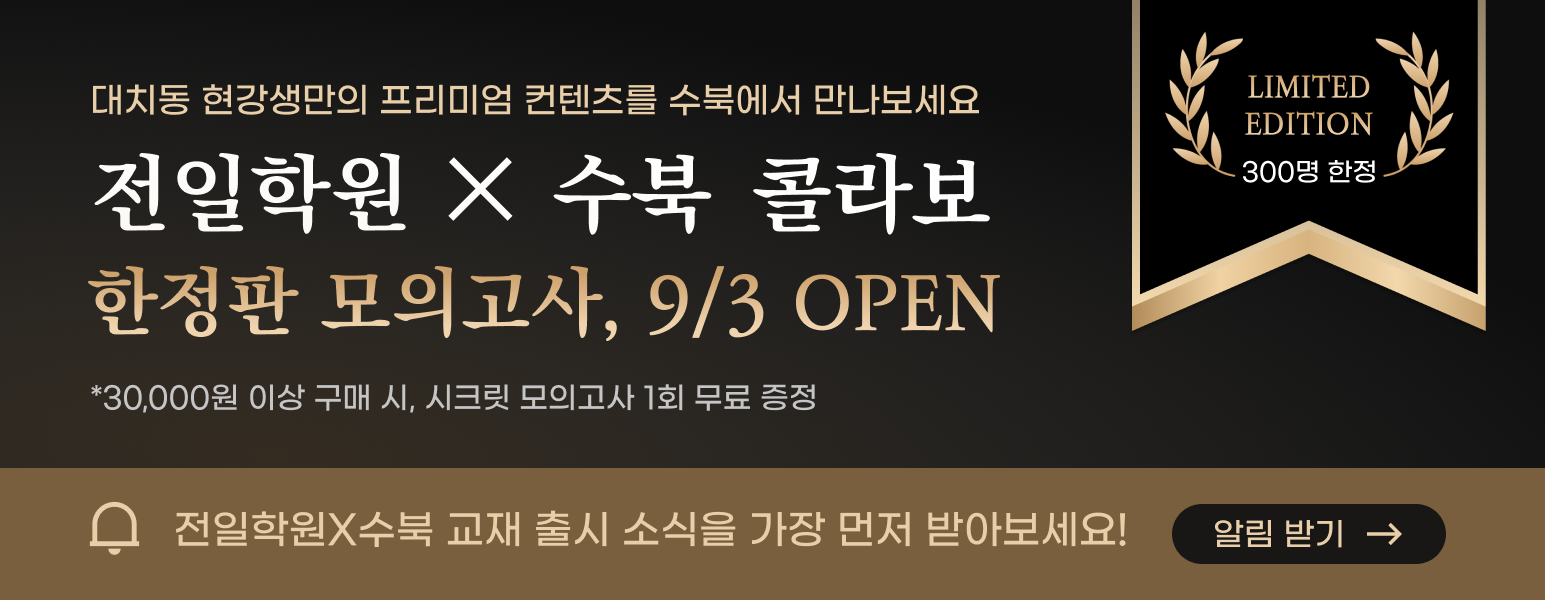
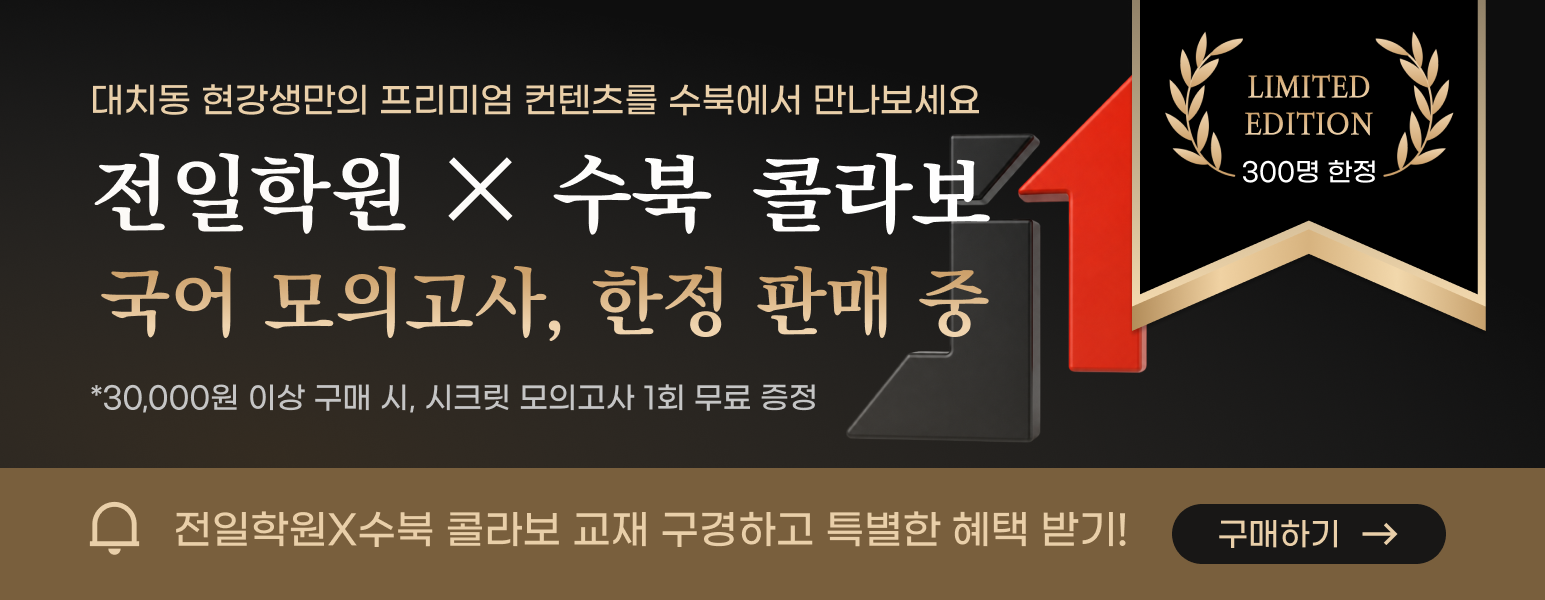
[FEAT] 전일 상세페이지 교재·가격 갱신 + 히어로배너4 webp
- 미니/FULL 상세페이지 이미지 최신 피그마로 재슬라이스 (69,000원 -60%, 10회분 29,000원 -50%, FULL 59,000원, 런칭혜택 ~60%)
- FeaturedProductDetail 높이 배열 갱신
- hero-banner-4 desktop/mobile webp 생성

diff --git a/apps/public-web/src/components/FeaturedProductDetail.jsx b/apps/public-web/src/components/FeaturedProductDetail.jsx
@@ -24,8 +24,8 @@ const detailImageModules = import.meta.glob("../assets/product-detail/*/*.webp",
 // ⚠ 이미지를 다시 내보내면 이 높이 배열도 함께 갱신할 것.
 const DETAIL_IMAGE_WIDTH = 1201;
 const DETAIL_IMAGE_HEIGHTS = {
-  "j1-full": [934, 767, 1394, 1879, 1258, 1257, 1418, 1778, 1250],
-  "j1-mini": [934, 767, 1394, 2216, 1151, 1419, 1417, 1797, 1250],
+  "j1-full": [1400, 1400, 1400, 1400, 1400, 1400, 1400, 1400, 739],
+  "j1-mini": [1400, 1400, 1400, 1400, 1400, 1400, 1400, 1400, 1149],
 };
 
 function buildDetailImages(key) {
